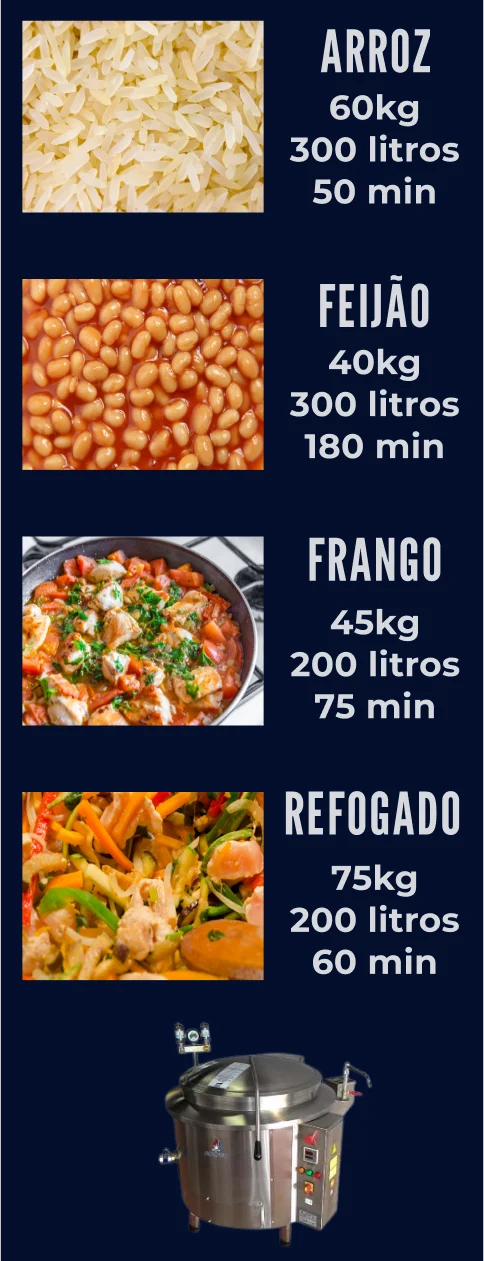
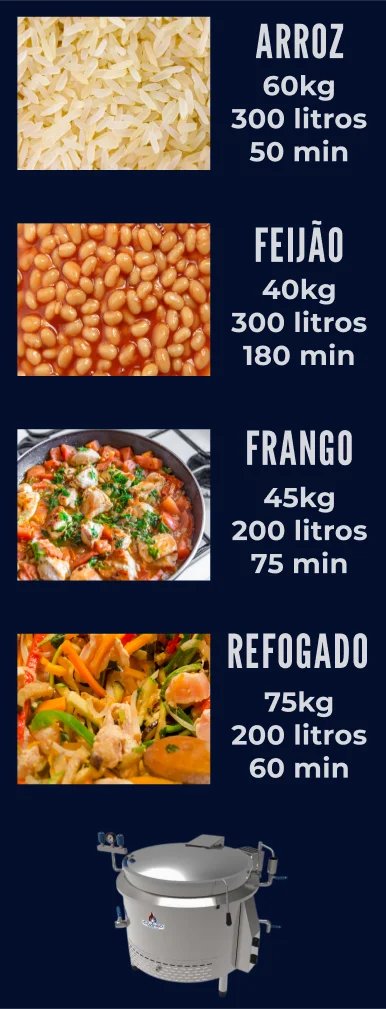
att

diff --git a/caldeirao.html b/caldeirao.html
@@ -51,100 +51,7 @@
             <source media="(min-width: 768px) and (max-width: 1400px)" srcset="./img/caldeiraoIndPng-1.webp">
             <img src="./img/caldeiraoIndPng.webp" alt="Caldeirão">
         </picture>
-        <p>Caldeirões industriais a gás Cozifrio</p>
-        <div class="informacoes">
-            <hr>
-            <p>Os Caldeirões industriais autogeradores de vapor COZIFRIO, foram desenvolvidos para corrigir erros humanos de operação automaticamente, que em caldeirões comuns passariam despercebidos.
-                <br><br>
-                Fabricados com toda documentação obrigatória e com P x V < 8 não se enquadram na NR13, fato que desburocratiza sua utilização em cozinhas de qualquer porte.</p>
-        </div>
-        <div class="card">
-            <div class="titulo">
-                <h1>MAIS SEGURANÇA</h1>
-                <hr>
-            </div>
-            <p>Os caldeirões industriais Cozifrio facilitam o monitoramento, pois controlam o nível de água do vaso de pressão, acendimento, pressão de operação, temperatura e tempo de cozimento tudo sem intervenção do operador, evitando erros de manuseio. Os caldeirões Cozifrio são os únicos com 5 válvulas além de pressostatos de segurança e monitoramento da pressão e temperatura.</p>
-        </div>
-        <div class="card">
-            <div class="titulo">
-                <h1>MAIS ECONOMIA</h1>
-                <hr>
-            </div>
-            <p>Queimadores com design Italiano e com sistema de monitoramento da temperatura dos alimentos, água da camisa e tempo de processo proporcionam maior economia de gás e água em relação aos caldeirões comuns.</p>
-        </div>
-        <div class="card">
-            <div class="titulo">
-                <h1>MAIS PRODUTIVIDADE</h1>
-                <hr>
-            </div>
-            <p>Basta colocar a temperatura e o tempo necessário para cozimento que no final do processo um alarme é disparado para lembrar o operador que o produto já está pronto. Enquanto ele cozinha, o operador pode ficar despreocupado realizando outras funções.</p>
-        </div>
-        <div class="card">
-            <div class="titulo">
-                <h1>ATENDIMENTO A NR 12</h1>
-                <hr>
-            </div>
-            <p>A NR 12 para máquinas de panificação também é aplicada em todos caldeirões COZIFRIO, o que torna os caldeirões mais seguros evitando acidentes operacionais, pois todos são fabricados com acendimentos elétricos ou automatizados.</p>
-        </div>
-        <div class="card">
-            <div class="titulo">
-                <h1>ATENDIMENTO A NR13</h1>
-                <hr>
-            </div>
-            <p>Para desburocratizar a favor dos nossos clientes, nossos caldeirões são fabricados de acordo que não se enquadram na NR13, mesmo assim toda a documentação pertinente ao caldeirão é fornecida.</p>
-        </div>
-        <div class="card">
-            <div class="titulo">
-                <h1>PAINEL DE ACIONAMENTO</h1>
-                <hr>
-            </div>
-            <p>Não há necessidade do operador se abaixar na frente do caldeirão para acender os queimadores, ao ligar o caldeirão, tudo será automático e o operador não precisará fazer mais nada!
-                <br><br>
-                Caldeirões digitais <span>COZIFRIO</span> dispõem de vários dispositivos adicionais de segurança, o principal deles é o bloqueio do gás em caso de falha no acendimento ou falta dele.
-            </p>
-            <picture id="painel">
-                <source media="(min-width: 320px) and (max-width: 419px)" srcset="./img/painelCaldeirao-6.webp">
-                <source media="(min-width: 420px) and (max-width: 575px)" srcset="./img/painelCaldeirao-5.webp">
-                <source media="(min-width: 576px) and (max-width: 767px)" srcset="./img/painelCaldeirao-4.webp">
-                <source media="(min-width: 768px) and (max-width: 991px)" srcset="./img/painelCaldeirao-3.webp">
-                <source media="(min-width: 992px) and (max-width: 1199px)" srcset="./img/painelCaldeirao-2.webp">
-                <source media="(min-width: 1200px) and (max-width: 1400px)" srcset="./img/painelCaldeirao-1.webp">
-                <img src="./img/painelCaldeirao.webp" alt="Painel de informações sobre o caldeirão">
-            </picture>
-            <p>O controlador digital é exclusivo da marca <span>COZIFRIO</span>. Nosso controlador gerencia a existência das chamas nos queimadores, controla o acendimento em três tentativas e dispara alarmes em caso de falha de chamas bloqueando o fornecimento de gás.</p>
-            <picture id="painel2">
-                <source media="(min-width: 320px) and (max-width: 419px)" srcset="./img/painelCaldeirao2-6.webp">
-                <source media="(min-width: 420px) and (max-width: 575px)" srcset="./img/painelCaldeirao2-5.webp">
-                <source media="(min-width: 576px) and (max-width: 767px)" srcset="./img/painelCaldeirao2-4.webp">
-                <source media="(min-width: 768px) and (max-width: 991px)" srcset="./img/painelCaldeirao2-3.webp">
-                <source media="(min-width: 992px) and (max-width: 1199px)" srcset="./img/painelCaldeirao2-2.webp">
-                <source media="(min-width: 1200px) and (max-width: 1400px)" srcset="./img/painelCaldeirao2-1.webp">
-                <img src="./img/painelCaldeirao2.webp" alt="Painel de informações sobre o caldeirão">
-            </picture>
-            <div id="painel3">
-                <picture>
-                    <source media="(min-width: 320px) and (max-width: 419px)" srcset="./img/painelCaldeirao3-5.webp">
-                    <source media="(min-width: 420px) and (max-width: 575px)" srcset="./img/painelCaldeirao3-4.webp">
-                    <source media="(min-width: 576px) and (max-width: 767px)" srcset="./img/painelCaldeirao3-3.webp">
-                    <source media="(min-width: 768px) and (max-width: 991px)" srcset="./img/painelCaldeirao3-2.webp">
-                    <source media="(min-width: 992px) and (max-width: 1199px)" srcset="./img/painelCaldeirao3-1.webp">
-                    <img src="./img/painelCaldeirao3.webp" alt="Painel de informações sobre o caldeirão">
-                </picture>
-                <p>Ao ligar o caldeirão, estas são as iniciais no display.
-                    <br><br>
-                    São três tentativas de acendimento ao ser ligado.
-                    <br><br>
-                    Se durante o funcionamento as chamas se apagarem por qualquer motivo, ha mais três tentativas de acendimento.
-                    <br><br>
-                    Após as três tentativas, se não for detectado chamas, o controlador indicará GÁS FALHA, seguido de um sinal sonoro intermitente de 120dB.
-                    <br><br>
-                    Ao ser detectado falha de gás, ou falha nos sensores o fornecimento de gás é bloqueado.
-                    <br><br>
-                    Este alarme tambem é acionado em caso de acabar o gás enquanto o caldeirão está em funcionamento, ou se o fornecimento estiver fechado no momento do acendimento do piloto, ao ser ligado o caldeirão.
-                </p>
-            </div>
-        </div>
-        <hr>
+        <p>Caldeirões industriais a gás , elétrico e vapor direto - Cozifrio</p>
         <h2>OS CALDEIRÕES DIGITAIS OU ELETRÔNICOS COZIFRIO SÃO DIVIDIDOS EM TRÊS MODELOS DESCRITOS ABAIXO</h2>
         <div class="card2">
             <h1>MODELOS AMERICANOS</h1>
@@ -165,16 +72,6 @@
             <p>Deve–se levar em consideração que, caldeirões elétricos ou vapor direto alimentado por caldeira externa tem melhor rendimento que os alimentados por qualquer tipo de gás. Mas são modelos inviáveis para o comercio.O modelo Estático pode ser montado com tampa autoclavado para uso em processos industriais como, por exemplo, tingir roupas etc.</p>
         </div>
         <hr>
-        <div class="containerCaldeiroesEspeciais">
-            <div class="linhas">
-                <hr id="azul">
-                <hr id="vermelho">
-            </div>
-            <div class="texto">
-                <h1>CALDEIRÕES ESPECIAIS PARA AEROPORTOS E PLATAFORMAS DE PETRÓLEO</h1>
-                <p>Fabricamos Caldeirões industriais elétricos modelos americanos ou autoclaves especiais para aeroportos, embarcações e plataformas de petróleo nas tensões até 680 V. Com 10 dispositivos de segurança (válvulas, sensores e componentes) fabricados especialmente sobre encomendas nos tamanhos de 220, 300 e 500 Litros.</p>
-            </div>
-        </div>
         <div class="dadosTecnicos">
             <hr class="azul">
             <h1>DADOS TÉCNICOS</h1>
@@ -249,13 +146,13 @@
         <hr>
         <h2>EXEMPLO PARA O PREPARO DE 500 REFEIÇÕES POR DIA EM UMA COZINHA COMERCIAL</h2>
         <picture id="exemplo1">
-            <source media="(min-width: 280px) and (max-width: 419px)" srcset="./img/exemplo1-3.webp">
+            <source media="(min-width: 280px) and (max-width: 419px)" srcset="./img/exemplo1-2.webp">
             <source media="(min-width: 420px) and (max-width: 991px)" srcset="./img/exemplo1-1.webp">
             <img src="./img/exemplo1.webp" alt="Tabela">
         </picture>
         <h2 style="color: #62170C;">MODELO AUTOCLAVE PARA GRÃOS, CONSIDERAR 30% A MENOS NO TEMPO ACIMA.</h2>
         <picture id="exemplo2">
-            <source media="(min-width: 320px) and (max-width: 419px)" srcset="./img/exemplo2-3.webp">
+            <source media="(min-width: 320px) and (max-width: 419px)" srcset="./img/exemplo2-2.webp">
             <source media="(min-width: 420px) and (max-width: 991px)" srcset="./img/exemplo2-1.webp">
             <img src="./img/exemplo2.webp" alt="Tabela">
         </picture>

diff --git a/contato.html b/contato.html
@@ -58,7 +58,7 @@
         </div>
         <div class="redes">
             <a href="">
-                <h1 style="background-color: #101520; transition: 0.3s;">WhatsApp</h1>
+                <h1 style="background-color: #101520; transition: 0.3s;"> (11) 99367-6625</h1>
             </a>
             <h1 style="background-color: #911D0E;">TEL: (11) 3421-3284</h1>
             <h1 style="background-color: #14205F;">cozifrio@cozifrio.com.br</h1>
@@ -71,7 +71,7 @@
                 <br>
                 <span>ASSISTÊNCIA TÉCNICA E MANUTENÇÕES:</span> contato@cozifrio.com.br
                 <br>
-                <span>PROFISSIONAL:</span> douglas@cozifrio.com</h2>
+                <span>PROFISSIONAL:</span> cozifrio@cozifrio.com.br</h2>
             </div>
         </div>
         <hr>
@@ -81,7 +81,7 @@
             </div>
             <div class="bgMaps">
                 <h1>LOCALIZAÇÃO</h1>
-                <h2>Rua João Gilberto n° 596 <span>(antiga rua dois)</span><br>Jardim Santa Rita II - Itaquaquecetuba - SP<br>CEP 08596-760</h2>    
+                <h2>Rua João Gilberto n° 569 <span>(antiga rua dois)</span><br>Jardim Santa Rita II - Itaquaquecetuba - SP<br>CEP 08596-760</h2>    
                 <iframe title="maps" src="https://www.google.com/maps/embed?pb=!1m18!1m12!1m3!1d29270.942465365202!2d-46.342354272556776!3d-23.501270445804565!2m3!1f0!2f0!3f0!3m2!1i1024!2i768!4f13.1!3m3!1m2!1s0x94ce7bbdb122dad1%3A0x1c6a3158447392c1!2sEE.Jd.Santa%20Rita%20II!5e0!3m2!1spt-BR!2sbr!4v1704814773330!5m2!1spt-BR!2sbr" id="maps" style="border:0;" allowfullscreen="" loading="lazy" referrerpolicy="no-referrer-when-downgrade"></iframe>
             </div>
         </div>

diff --git a/valvulas.html b/valvulas.html
@@ -83,7 +83,7 @@
             <p>Esta é uma válvula de alivio especial para a coluna do vaso de pressão dos caldeirões, é composta por 3 estágios sendo, aeração, regulação e quebra vácuo. Pode ser adquirida nas versões abaixo conforme a necessidades do projeto.</p>
         </div>
         <div class="card2">
-            <h1>VAE 002</h1>
+            <h1>VAC 002 (COLLOR)</h1>
             <p>Válvula para fabricantes, esta válvula é aplicada em caldeirões comuns padrão de mercado com pressão de trabalho de 0,5 kgf/cm². Esta válvula é especial para fabricantes pelo melhor custo benefício.</p>
         </div>
         <picture id="tabela">
